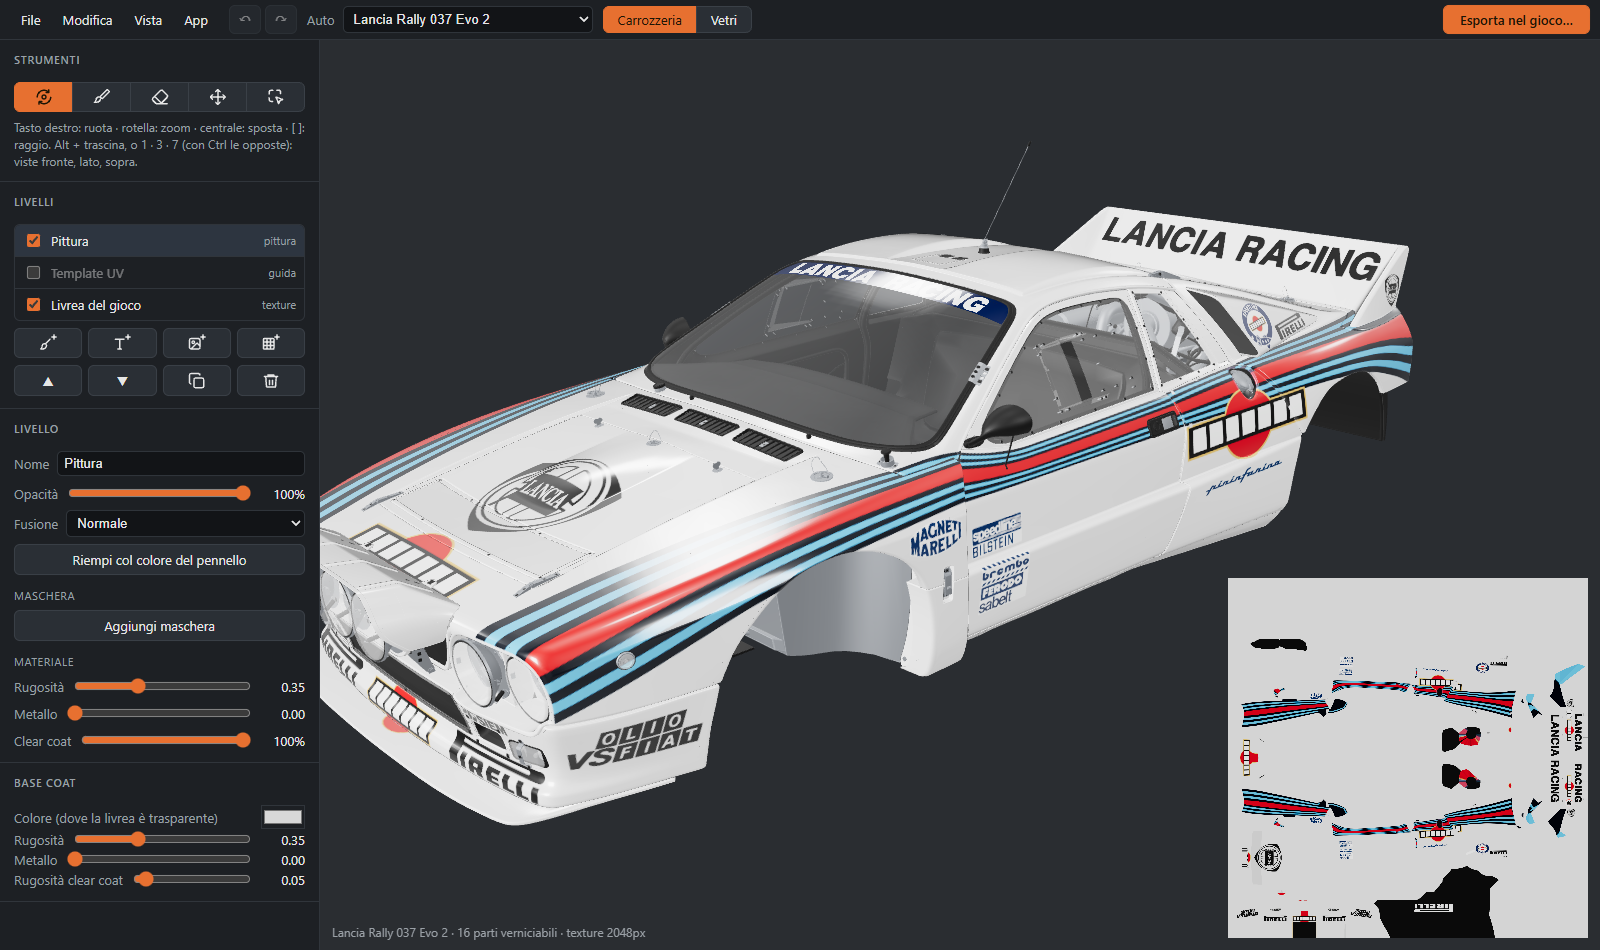
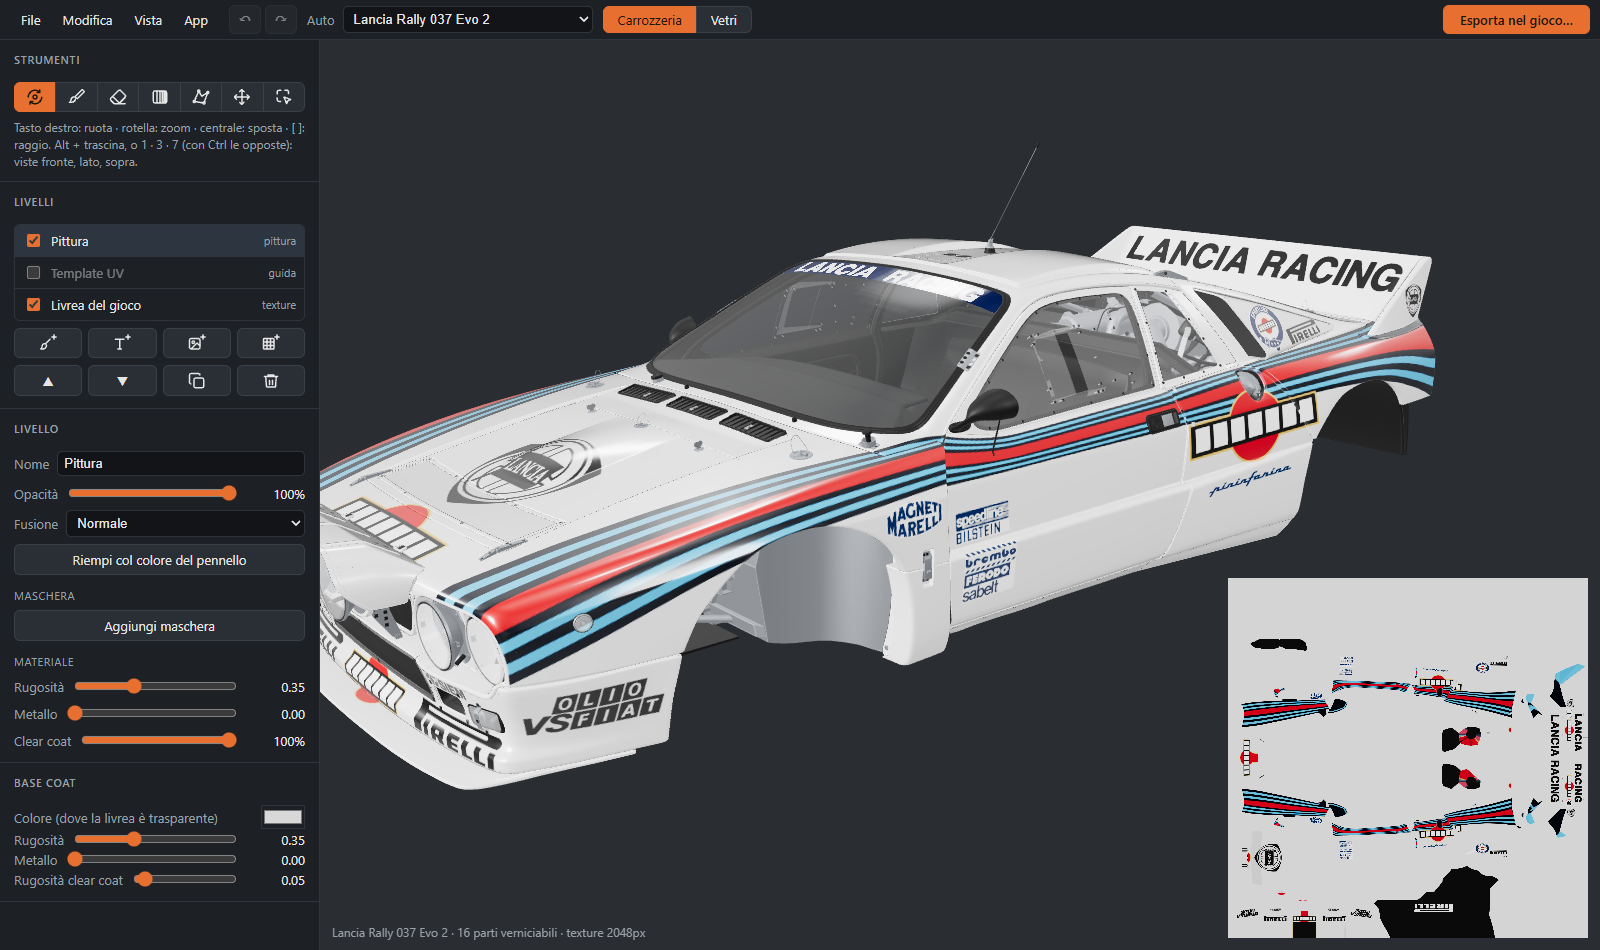
Docs for 0.10.0

diff --git a/CHANGELOG.it.md b/CHANGELOG.it.md
@@ -1,5 +1,26 @@
 # Novità
 
+## [0.10.0] - 2026-11-23
+
+Forme che disegni e puoi sempre modificare, il retino a puntini e una simmetria che specchia davvero.
+
+### Novità
+- Strumento **Forma** (S): disegna una figura sull'auto con punti d'angolo e curvi; quando la chiudi diventa un
+  livello a sé. Selezionala di nuovo quando vuoi per trascinarne punti e maniglie o cambiarne **Colore** e
+  **Riempimento**: **Pieno**, **Retino a puntini** (**Passo**, **Puntini**, **Sfumatura** e **Direzione**: i puntini
+  rimpiccioliscono attraverso la forma), **Carbonio**, **Gesso** o **Spruzzo**. **Nuova forma** (Esc) ne comincia
+  un'altra; **Vista della forma** rimette la vista da cui l'hai disegnata. Le forme si salvano nei progetti.
+- Pennello **Retino a puntini** (punta **Retino**): dipinge a puntini, più piccoli verso il bordo morbido del
+  pennello; **Grana** è la distanza tra i puntini. Anche **Riempi col colore del pennello** riempie a puntini.
+
+### Modifiche
+- **Anche sull'altro lato (simmetria)**: sull'altro lato un'immagine ora è davvero speculare (una freccia punta in
+  avanti su entrambi i fianchi). Il testo resta leggibile; per un'immagine con una scritta spunta **Sull'altro lato
+  leggibile (non speculare)**. Nei progetti salvati prima, le immagini con la simmetria ora appaiono speculari
+  sull'altro lato.
+- Con **Simmetria sinistra/destra** anche i timbri sull'altro lato sono speculari.
+- La **Penna** dello strumento **Parti** disegna bordi morbidi invece che a scalini.
+
 ## [0.9.1] - 2026-11-20
 
 Immagini e testi che si trovano cliccandoli sull'auto, e il lunotto della Xsara.

diff --git a/CHANGELOG.md b/CHANGELOG.md
@@ -1,5 +1,25 @@
 # Changelog
 
+## [0.10.0] - 2026-11-23
+
+Shapes you draw and can always edit, halftone dots, and a symmetry that really mirrors.
+
+### New
+- **Shape** tool (S): draw a figure on the car with corner and curved points; when you close it, it becomes a layer
+  of its own. Select it again whenever you like to drag its points and handles or change its **Colour** and
+  **Fill**: **Solid**, **Halftone dots** (**Spacing**, **Dots**, **Fade** and **Direction**: the dots get smaller
+  across the shape), **Carbon**, **Chalk** or **Spray**. **New shape** (Esc) starts another one; **Shape's view**
+  puts back the view you drew it from. Shapes are saved in projects.
+- **Halftone dots** brush (**Halftone** tip): paints in dots, smaller towards the brush's soft edge; **Grain** is the
+  spacing between the dots. **Fill with the brush colour** fills with dots too.
+
+### Changed
+- **On the other side too (symmetry)**: an image is now a true mirror image on the other side (an arrow points
+  forward on both sides). Text stays readable; for an image with writing in it, tick **Readable on the other side
+  (not mirrored)**. In projects saved before, images with the symmetry now show mirrored on the other side.
+- With **Left/right symmetry**, stamps on the other side are mirror images too.
+- The **Parts** tool's **Pen** draws smooth edges instead of stepped ones.
+
 ## [0.9.1] - 2026-11-20
 
 Images and texts you find by clicking them on the car, and the Xsara's rear window.

diff --git a/README.it.md b/README.it.md
@@ -11,8 +11,10 @@ La guida completa è nel **[wiki](https://github.com/agastal/AcrLiveryTool-Relea
 
 - Tutte le 20 auto del gioco, con la loro livrea come punto di partenza e i template UV ufficiali come guida.
 - Livelli con maschere, modi di fusione e rugosità, metallo e clear coat propri.
-- Pennelli che lavorano in 3D (nessuna cucitura tra i pannelli): tondo, spruzzo, gesso, fibra di carbonio, timbri; simmetria
-  sinistra/destra.
+- Pennelli che lavorano in 3D (nessuna cucitura tra i pannelli): tondo, spruzzo, gesso, fibra di carbonio, retino a
+  puntini, timbri; simmetria sinistra/destra.
+- Forme con punti d'angolo e curvi, ognuna un livello sempre modificabile, piene, a retino, in carbonio, gesso o
+  spruzzo.
 - Immagini (PNG, JPG, SVG) e testi proiettati sull'auto, se vuoi anche sull'altro lato.
 - Annulla/ripeti, file di progetto (`.acrlivery`).
 - In italiano, inglese, francese, tedesco e spagnolo.

diff --git a/README.md b/README.md
@@ -11,7 +11,10 @@ The full guide is in the **[wiki](https://github.com/agastal/AcrLiveryTool-Relea
 
 - All 20 cars of the game, with their own livery as a starting point and the official UV templates as a guide.
 - Layers with masks, blend modes and their own roughness, metallic and clear coat.
-- Brushes that work in 3D (no seams between panels): round, spray, chalk, carbon fibre, stamps; left/right symmetry.
+- Brushes that work in 3D (no seams between panels): round, spray, chalk, carbon fibre, halftone dots, stamps;
+  left/right symmetry.
+- Shapes with corner and curved points, each a layer you can always edit, filled solid, with halftone dots, carbon,
+  chalk or spray.
 - Images (PNG, JPG, SVG) and text projected on the car, mirrored to the other side if you want.
 - Undo/redo, project files (`.acrlivery`).
 - In Italian, English, French, German and Spanish.
